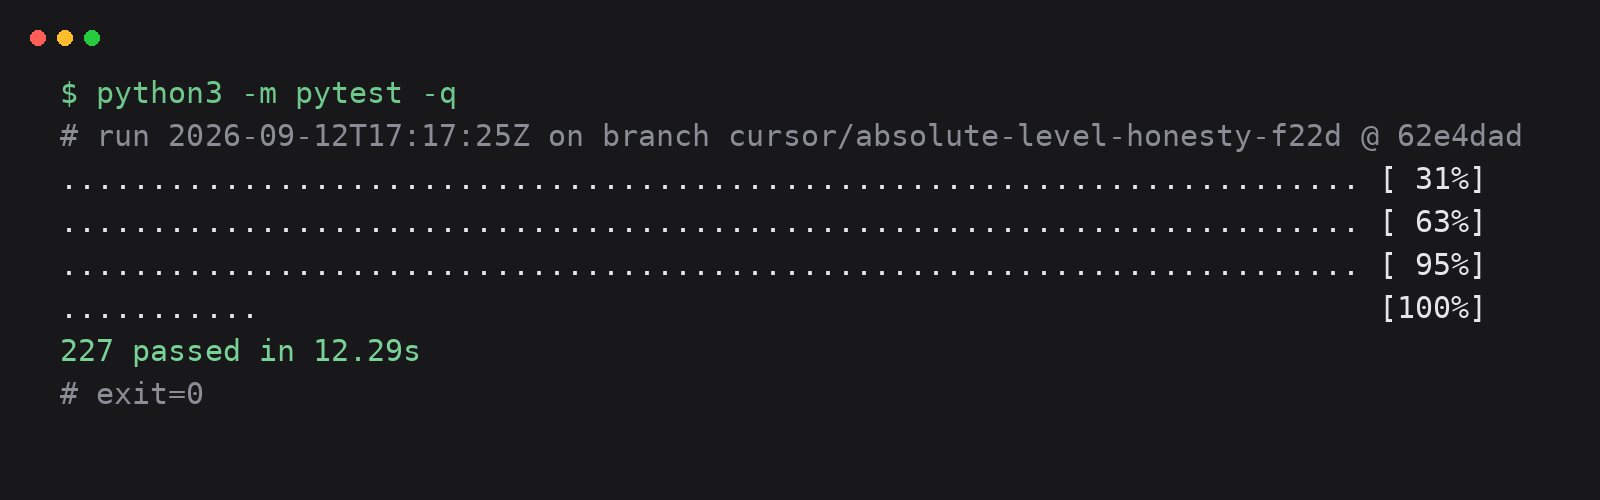
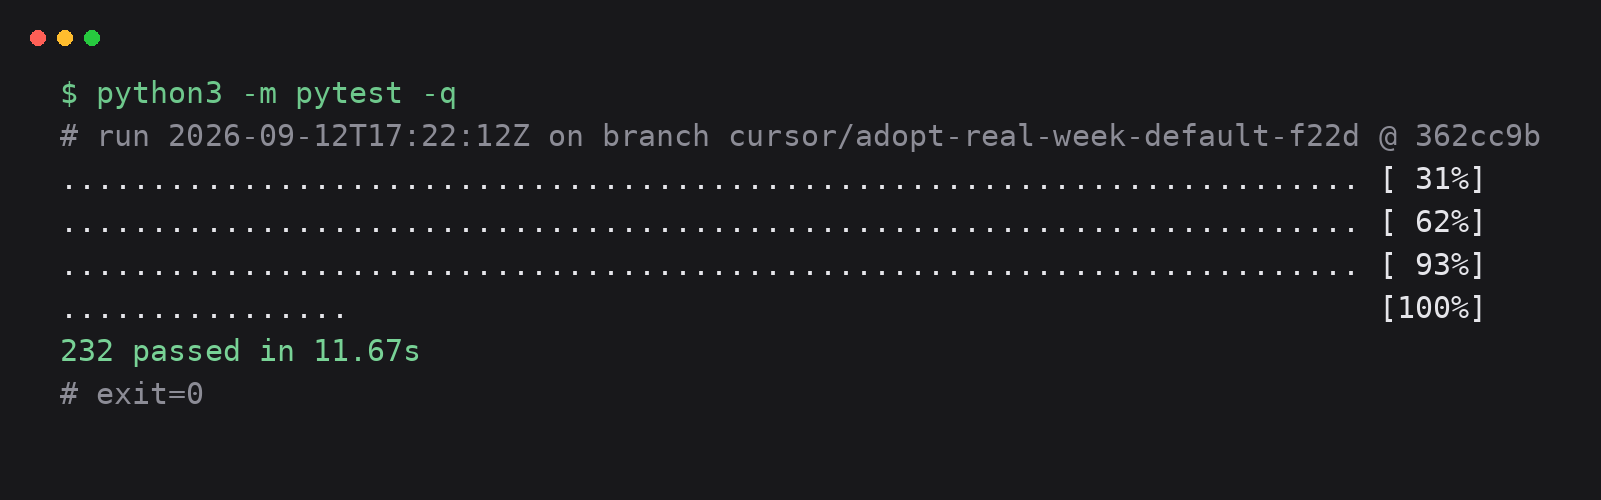
Slice 29: adopt default is a real week — --simulate opt-in
Bare magnet adopt no longer fabricates a SIMULATED stamp. Same-day
readings already survived; the default lied for no reason. Demo and
agent-run still label simulated weeks. 232 tests green.

diff --git a/tests/test_adopt_real_week.py b/tests/test_adopt_real_week.py
@@ -1,0 +1,131 @@
+"""Slice 29 — adopt default is a real week, not a fabricated SIMULATED stamp.
+
+Found 2026-09-12 by running:
+  magnet adopt skill x 'pass rate rises by 1/5' --probe demo-pass-rate --demo-bonus --reset
+  → reading … (SIMULATED week)
+  → simulated  2026-09-20T…  (SIMULATED week — not a real read time)
+
+Same-day readings already survive (Slice bugs #2). The default fabricated a
+week for no reason. Real week is now default; --simulate is the demo opt-in.
+"""
+from __future__ import annotations
+
+import subprocess
+import sys
+from pathlib import Path
+
+from magnet.adopt import run_adopt
+
+ROOT = Path(__file__).resolve().parents[1]
+
+
+def test_run_adopt_default_has_no_simulated(tmp_path):
+    out = run_adopt(
+        "skill",
+        "demo-verification-skill",
+        "pass rate rises by 1/5",
+        "demo-pass-rate",
+        log_path=str(tmp_path / "log.db"),
+        reset=True,
+        apply_demo_bonus=True,
+    )
+    assert "SIMULATED" not in out, out
+    assert "verdict    helped" in out
+    assert "prediction-held" in out
+
+
+def test_run_adopt_simulate_opt_in_still_labels(tmp_path):
+    out = run_adopt(
+        "skill",
+        "demo-verification-skill",
+        "pass rate rises by 1/5",
+        "demo-pass-rate",
+        log_path=str(tmp_path / "log.db"),
+        reset=True,
+        apply_demo_bonus=True,
+        simulate_next_week=True,
+    )
+    assert "SIMULATED" in out
+    assert "verdict    helped" in out
+
+
+def test_cli_bare_adopt_prints_no_simulated(tmp_path):
+    log = tmp_path / "cli.db"
+    proc = subprocess.run(
+        [
+            sys.executable,
+            "-m",
+            "magnet.cli",
+            "--log",
+            str(log),
+            "adopt",
+            "skill",
+            "x",
+            "pass rate rises by 1/5",
+            "--probe",
+            "demo-pass-rate",
+            "--demo-bonus",
+            "--reset",
+        ],
+        cwd=str(ROOT),
+        capture_output=True,
+        text=True,
+    )
+    assert proc.returncode == 0, proc.stdout + proc.stderr
+    assert "SIMULATED" not in proc.stdout, proc.stdout
+    assert "helped" in proc.stdout
+
+
+def test_cli_simulate_flag_labels_simulated(tmp_path):
+    log = tmp_path / "sim.db"
+    proc = subprocess.run(
+        [
+            sys.executable,
+            "-m",
+            "magnet.cli",
+            "--log",
+            str(log),
+            "adopt",
+            "skill",
+            "x",
+            "pass rate rises by 1/5",
+            "--probe",
+            "demo-pass-rate",
+            "--demo-bonus",
+            "--reset",
+            "--simulate",
+        ],
+        cwd=str(ROOT),
+        capture_output=True,
+        text=True,
+    )
+    assert proc.returncode == 0, proc.stdout + proc.stderr
+    assert "SIMULATED" in proc.stdout
+
+
+def test_cli_no_simulate_alias_still_real_week(tmp_path):
+    """Old docs pass --no-simulate; must remain a real week (and stay green)."""
+    log = tmp_path / "alias.db"
+    proc = subprocess.run(
+        [
+            sys.executable,
+            "-m",
+            "magnet.cli",
+            "--log",
+            str(log),
+            "adopt",
+            "skill",
+            "x",
+            "pass rate rises by 1/5",
+            "--probe",
+            "demo-pass-rate",
+            "--demo-bonus",
+            "--reset",
+            "--no-simulate",
+        ],
+        cwd=str(ROOT),
+        capture_output=True,
+        text=True,
+    )
+    assert proc.returncode == 0, proc.stdout + proc.stderr
+    assert "SIMULATED" not in proc.stdout

diff --git a/magnet/cli.py b/magnet/cli.py
@@ -112,7 +112,7 @@ def cmd_adopt(args: argparse.Namespace) -> int:
             args.probe,
             log_path=args.log,
             apply_demo_bonus=args.demo_bonus,
-            simulate_next_week=not args.no_simulate,
+            simulate_next_week=args.simulate,
             reset=args.reset,
             fit=args.fit,
             stack_dir=args.stack,
@@ -331,7 +331,16 @@ def main(argv: list[str] | None = None) -> int:
     p_adopt.add_argument("prediction", help="Testable prediction (e.g. 'pass rate rises by 1/5')")
     p_adopt.add_argument("--probe", default="demo-pass-rate", help="Probe to measure")
     p_adopt.add_argument("--demo-bonus", action="store_true", help="Apply demo skill bonus (+1/5)")
-    p_adopt.add_argument("--no-simulate", action="store_true", help="Do not simulate next week")
+    p_adopt.add_argument(
+        "--simulate",
+        action="store_true",
+        help="DEMO only: place the post-adoption reading in a simulated following week",
+    )
+    p_adopt.add_argument(
+        "--no-simulate",
+        action="store_true",
+        help="Deprecated no-op — real week is now the default (kept for old docs)",
+    )
     p_adopt.add_argument("--reset", action="store_true", help="Clear log before adopt")
     p_adopt.add_argument(
         "--fit",

diff --git a/magnet/adopt.py b/magnet/adopt.py
@@ -30,7 +30,7 @@ def run_adopt(
     *,
     log_path: str | None = None,
     apply_demo_bonus: bool = False,
-    simulate_next_week: bool = True,
+    simulate_next_week: bool = False,
     reset: bool = False,
     fit: bool = False,
     stack_dir: str | None = None,

diff --git a/docs/REPORT.md b/docs/REPORT.md
@@ -1,34 +1,38 @@
-# Build report · Slice 28 · 2026-09-12
+# Build report · Slice 28–29 · 2026-09-12
 
 ## SHIPPED
 
-### Slice 28 — Absolute-level honesty (no-slash stay-at + remain/hold/keep + floor)
-- `must stay at 5` (no `/pop`) grades latest value — no longer invents held @ 4/5.
-- `remain at` / `hold at` / `keep at` / `unchanged at` are flat + level (no more no-direction while a level sits on the table).
-- Floor claims: `at least 4/5` / `no worse than 4/5` — held when latest ≥ floor.
-- `magnet pred-demo` → **15/15** magnet · **7** embarrassment rows vs naive direction-only.
-- **227** pytest tests (re-derived from `tests/test_*.py`).
+### Slice 28 — Absolute-level honesty
+- `must stay at 5` (no `/pop`) grades latest value.
+- `remain at` / `hold at` / `keep at` / `unchanged at` are flat + level.
+- Floor: `at least 4/5` / `no worse than 4/5`.
+- `magnet pred-demo` → **15/15** · **7** embarrassment rows.
+
+### Slice 29 — Adopt default real week
+- Bare `magnet adopt` no longer prints `SIMULATED week`.
+- `--simulate` is the demo opt-in; `--no-simulate` kept as deprecated no-op for old docs.
+- `magnet demo` / `agent-run` still label simulated weeks explicitly.
+- **232** pytest tests (re-derived from `tests/test_*.py`).
 
 ## VERIFIED
 
 | Claim | Command |
 |-------|---------|
-| Tests | `python3 -m pytest -q` → 227 passed |
-| stay-at no slash | `check_prediction("must stay at 5", "unchanged", 0, population=5, latest_value=4)` → prediction-missed |
-| remain-at | `prediction_intent("must remain at 5/5")` → flat · wrong level → missed |
-| floor | `check_prediction("pass rate at least 4/5", …, latest_value=3)` → prediction-missed |
+| Tests | `python3 -m pytest -q` → 232 passed |
+| stay-at no slash | `check_prediction("must stay at 5", …, latest_value=4)` → prediction-missed |
 | pred-demo | `magnet pred-demo` → magnet 15/15 · embarrassed 7 · FINDING |
+| bare adopt | `magnet adopt skill x '…' --probe demo-pass-rate --demo-bonus --reset` → no SIMULATED · helped · real `read_at` |
+| `--simulate` | same + `--simulate` → SIMULATED labelled |
+| demo still simulated | `magnet demo` → SIMULATED week note |
 | check_docs | `magnet check-docs` → 13 PASS |
-| Naive arm | direction-only still invents held on wrong level/floor (embarrassment) |
-| Cold clone s28 | `/tmp/magnet-cold-s28` @ `ecc179f` → 227 passed · pred-demo FINDING · JUDGE DEMO OK |
+| Cold clone s28 | `/tmp/magnet-cold-s28` @ `ecc179f` → 227 passed · JUDGE DEMO OK |
 | SHIP GATE s28 | `git push origin main` → `bc7a58b` |
 
 ## WRONG
 
-- **Surface arm still 1/2** — helicon science; not papered over.
+- **Surface arm still 1/2** — helicon science.
 - **Bedrock cloud BLOCKED.**
-- **`adopt` still fabricates next week by default** — MAGNET-BUGS left open; Slice 29 candidate.
-- **Vacuous `0/0` probes exit 0** — empty stack invents a green control; Slice 30 candidate.
-- **history/one-workflow sidecars still stale** (pre–outcome lines); check_docs blind to them.
-- **Pillow not in base install** — screenshots extra only.
-- Historical cold-clone rows in older LOG entries keep their then-true counts; do not rewrite them to 227.
+- **Vacuous `0/0` probes exit 0** — empty stack invents a green control; Slice 30.
+- **history/one-workflow sidecars still stale**; check_docs blind to them.
+- **Pillow not in base install.**
+- Flipping adopt default changes stranger receipts that previously showed SIMULATED without `--no-simulate` — intentional honesty.

diff --git a/hack.md b/hack.md
@@ -75,15 +75,18 @@ No number without the command that produced it, the population it is out of, and
 | 27 | Linux screenshot render + live sidecars + pred-demo stranger paste | `render-screenshot.py` finds DejaVu · `pred-demo.png` on disk · check-docs 13 PASS · pytest green |
 | 28 | Absolute-level honesty without slash + remain/hold/keep + floor | `must stay at 5` @ latest 4 → missed · remain/hold grade · `at least 4/5` floor · `magnet pred-demo` embarrasses · pytest green |
 | 29 | Adopt default real week (no fabricated SIMULATED) | bare `magnet adopt` prints no SIMULATED · `--simulate` opt-in · demo exit 0 · pytest green |
+| 30 | Vacuous probe RED control + empty-allow hook honesty | empty skills → effort n/a or fail (not 0/0 success) · empty allow alone ≠ hook signal · pytest green |
 
 ## NOW
 
-**Slice 29:** `adopt` still fabricates next week by default (`SIMULATED week` on bare `magnet adopt`). Same-day readings already survive under `--no-simulate`. Flip default to real week; keep `--simulate` for the demo affordance. Done when: bare adopt prints no SIMULATED; demo still exits 0; pytest green.
+**Slice 30:** Vacuous probes invent green: empty skills dir → `effort-coverage: 0/0` exit 0; empty `permissions.allow: []` can score hook credit without a blocker. Controls must go RED. Open the probe objects: empty/missing → explicit n/a or non-zero; empty allow alone does not invent hardening. pytest green.
 
 **Oscar gates:** film video · Devpost paste · submit Sep 14.
 
 ## LOG
 
+- 2026-09-12 · Slice 29 SHIP · adopt default real week · `--simulate` opt-in · bare adopt no SIMULATED · `python3 -m pytest -q` → 232 passed · check-docs 13 PASS · cold clone pending.
+- 2026-09-12 · Slice 29 START · ran object: bare `magnet adopt … --demo-bonus --reset` prints `(SIMULATED week)` and future `simulated` stamp. Same-day readings already survive. Flipping default to real week; `--simulate` opt-in; `--no-simulate` kept as no-op for old docs.
 - 2026-09-12 · Slice 28 SHIP · stay-at without /pop · remain/hold/keep/unchanged-at · floor `at least` · `magnet pred-demo` 15/15 embarrassed 7 · `python3 -m pytest -q` → 227 passed · check-docs 13 PASS · cold clone `/tmp/magnet-cold-s28` @ `ecc179f` 227 passed · pred-demo FINDING · JUDGE DEMO OK · `git push origin main` → `bc7a58b`.
 - 2026-09-12 · Slice 28 START · ran objects: `claimed_level("must stay at 5")` → None → check_prediction held @ latest 4/5 (lie). `remain at 4/5` / `hold at 190/190` → level parsed, intent unknown → no-direction. `unchanged at 5/5` → flat, no level. Building absolute-level honesty pack.
 - 2026-09-11 · Slice 27 SHIP · Linux fonts in render-screenshot.py · pred-demo.png + check-docs/pytest PNGs · `python3 -m pytest -q` → 212 passed · check-docs 13 PASS · cold clone `/tmp/magnet-cold-s27` @ `fab2443` 212 passed · pred-demo FINDING · JUDGE DEMO OK · `git push origin main` → `fab2443`.

diff --git a/docs/DEVPOST-DESCRIPTION.md b/docs/DEVPOST-DESCRIPTION.md
@@ -74,7 +74,7 @@ The three rows in the log, straight from SQLite (`select id, recorded_at, value,
 3|2026-09-03T11:58:14+00:00|112|112|2
 ```
 
-226 rather than 227 because one integration test is marked `slow` and the advertised probe command deselects it.
+231 rather than 232 because one integration test is marked `slow` and the advertised probe command deselects it.
 
 ## The A/B: helped, hurt, baseline
 
@@ -106,7 +106,7 @@ Which commands go through the agent: `magnet agent-run` only. `magnet record`, `
 - The default agent mode does not prove a language model chose the tool sequence. Only `--model bedrock` does, and that needs AWS credentials and costs money, so it never runs in CI. It was run once, on 2026-09-02, and the receipt is in the repo.
 - In that Bedrock run, `check_docs_tool` logged `failed to parse tool input json` once. The run still completed with exit 0. Recorded in the receipt under "WRONG".
 - `magnet demo` and `magnet agent-run` place their second reading in a simulated following week so a single run can show a two-reading verdict. Every such reading is labelled `SIMULATED` on screen. The six-command workflow above uses no simulation.
-- `pytest` is in the `[dev]` extra, not in the base install. A fresh clone that runs `pip install -e .` and then `pytest` has no pytest in its virtualenv: on a clean machine the command is not found, and on a machine with a system pytest on the path the tests that spawn the verification scripts fail. `pip install -e ".[dev]"` first, then the suite is green: 227 passed (command: `python3 -m pytest -q`, 2026-09-12; count re-derived from `tests/test_*.py`).
+- `pytest` is in the `[dev]` extra, not in the base install. A fresh clone that runs `pip install -e .` and then `pytest` has no pytest in its virtualenv: on a clean machine the command is not found, and on a machine with a system pytest on the path the tests that spawn the verification scripts fail. `pip install -e ".[dev]"` first, then the suite is green: 232 passed (command: `python3 -m pytest -q`, 2026-09-12; count re-derived from `tests/test_*.py`).
 - If pytest is missing, `magnet probe pytest-pass-rate` prints `pytest-pass-rate: None` and exits 0. It should exit non-zero. Not fixed before submission.
 - The stack inventory (`magnet stack`, `magnet bakeoff`) runs against a fixture stack shipped in the repo, not against a live machine, so a judge sees the same numbers we do.
 - One user so far: the author. The log format and the probe registry are the only surfaces designed for a second team.

diff --git a/docs/MAGNET-BUGS-2026-09-03.md b/docs/MAGNET-BUGS-2026-09-03.md
@@ -98,4 +98,4 @@ Before, the scripts under test with `PIP_REQUIRE_VIRTUALENV=1`: `MAGNET judge de
 
 ## Left open, on purpose
 - (Closed by Cursor's `cursor/stack-magnet-bakeoff-5608`, commit "Fix demo-bonus always-on", once merged.) `tools.py` `tool_adopt_change` sets the demo bonus whenever the probe is `demo-pass-rate`, with or without `--demo-bonus`. So a hook adoption measured on the demo probe prints `helped` by construction (see the after-output of #1). The new `measures repo only` line sits under it, but the verdict line is still a lie for a stack change. Product ruling: either make the bonus opt-in only, or refuse `demo-pass-rate` for `hook`/`setting`.
-- `adopt` still simulates the next week by default. Now that same-day reads survive, the default fabricates a week for no reason. Flipping the default changes the recorded demo; Oscar's call.
+- (Closed Slice 29 · 2026-09-12.) `adopt` defaulted to `simulate_next_week=True`, fabricating a week for no reason after same-day readings survived. Default is now real week; `--simulate` is the demo opt-in; `--no-simulate` is a deprecated no-op for old docs.

diff --git a/docs/FUNDABLE-WEDGE.md b/docs/FUNDABLE-WEDGE.md
@@ -34,6 +34,7 @@ Developers on agentic stacks (Cursor, Claude Code, Strands) adopt prompts, model
 | **Magnitude honesty** | Claimed `rises by 2/5` with measured Δ +1 → magnet missed; naive direction invents held | `magnet pred-demo` |
 | **Stay-at honesty** | Claimed `must stay at 5/5` with latest 4/5 → magnet missed; naive flat invents held | `magnet pred-demo` |
 | **Absolute-level honesty** | `must stay at 5` (no `/pop`), `remain at` / `hold at`, floor `at least 4/5` — magnet misses wrong levels; naive invents held | `magnet pred-demo` |
+| **Real-week default** | Bare `magnet adopt` uses a real `read_at`; `--simulate` is the labelled demo opt-in | `magnet adopt … --demo-bonus --reset` |
 
 **Not the wedge:** skill marketplace crawl, Helicon-only dependency, fabricated metrics.
 

diff --git a/docs/STRANGER-PASS.md b/docs/STRANGER-PASS.md
@@ -83,7 +83,7 @@ Exit code: **0** (verified: `python -m magnet.cli eval`)
 ## `pytest -q` output
 
 ```
-227 passed (re-derived 2026-09-12)
+232 passed (re-derived 2026-09-12)
 ```
 
 Exit code: **0** (verified: `python3 -m pytest -q` on 2026-09-12)
@@ -176,7 +176,7 @@ Exit code: **0** (verified: `python -m magnet.cli list-probes`)
 ## `magnet probe pytest-pass-rate` output
 
 ```
-pytest-pass-rate: 226/226
+pytest-pass-rate: 231/231
   command: python3 -m pytest -q --tb=no -m "not slow"
 ```
 

diff --git a/docs/DEVPOST-READY.md b/docs/DEVPOST-READY.md
@@ -76,7 +76,7 @@ magnet agent-run
 # tools dispatched: run_probe → record_week → adopt_change → record_week → check_docs
 ```
 
-227 pytest tests · `bash scripts/stranger-pass.sh` → exit 0
+232 pytest tests · `bash scripts/stranger-pass.sh` → exit 0
 
 ---
 

diff --git a/docs/FILM-SCOUT-COMMANDS.md b/docs/FILM-SCOUT-COMMANDS.md
@@ -75,7 +75,7 @@ magnet history
 
 ```bash
 bash scripts/stranger-pass.sh   # must exit 0 before filming
-python3 -m pytest -q            # 227 passed
+python3 -m pytest -q            # 232 passed
 ```
 
 ---
